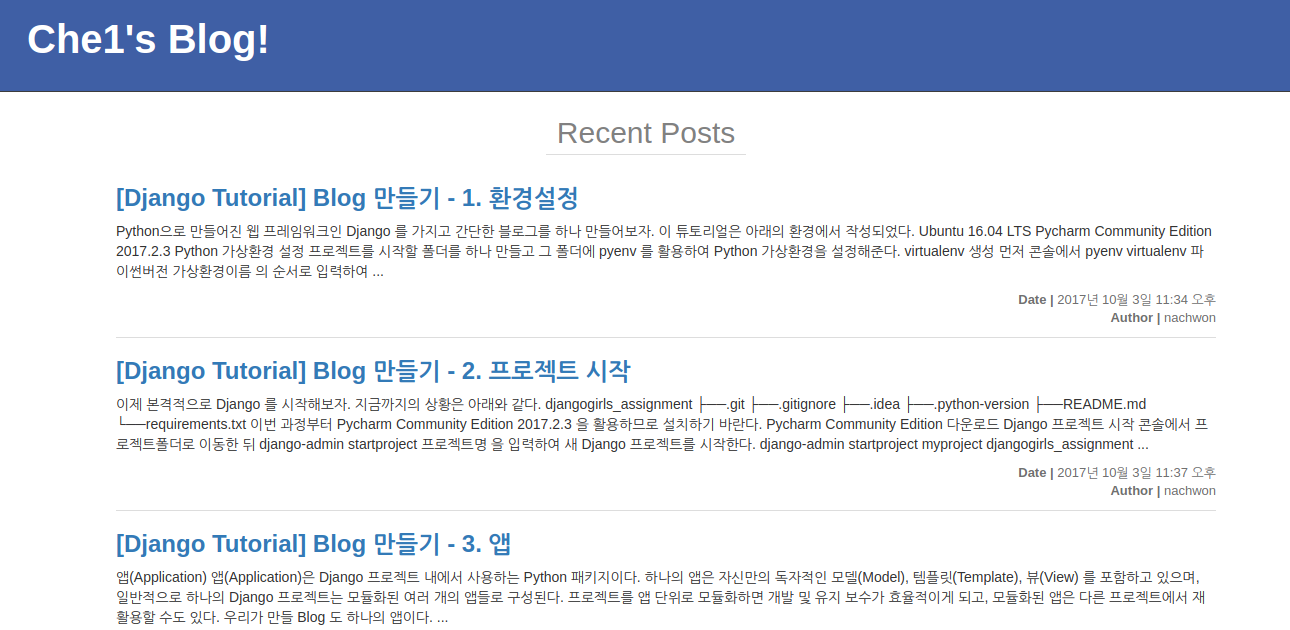
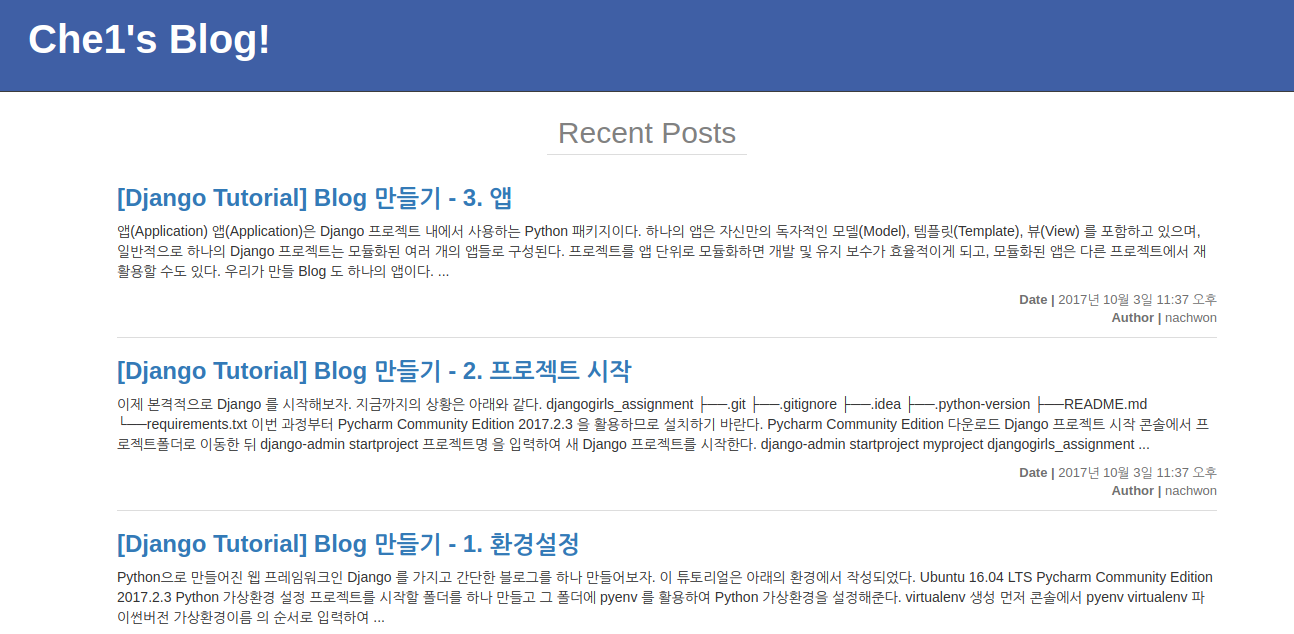
minor fixes

diff --git a/_posts/Django/2017-10-05-django-10-temp-language.md b/_posts/Django/2017-10-05-django-10-temp-language.md
@@ -60,7 +60,7 @@ author: Che1
 ```html
 <body>
     <ul>
-        <li>Post_data</li> <-- 이 부분을 자동화
+        <li>Post_data</li>  # 이 부분을 자동화
     </ul>
 </body>
 ```
@@ -70,8 +70,8 @@ author: Che1
 
 #### 템플릿에 데이터 전달하기
 
-템플릿에 데이터를 전달하는 방법을 먼저 알아보자.  
-이제 우리는 블로그 메인 화면에 나타날 `Post` 들의 목록을 만들어 줄 것이므로 `views.py` 를 열어 `helloworld` 함수를 아래와 같이 바꿔주자.
+템플릿에 데이터를 적용시켜 표시하려면 먼저 데이터를 전달하는 방법을 알아야한다. 이 작업은 뷰에서 이루어진다.   
+일단 블로그 메인 화면에 나타날 `Post` 들의 목록을 만들어 줄 것이므로 `views.py` 를 열어 `helloworld` 함수를 `post_list` 라는 함수로 바꿔주자.
 
 ```py
 def post_list(request):
@@ -128,7 +128,7 @@ return render(request, 'blog/post_list.html', context)
 #### 템플릿 언어
 
 이제 템플릿에 데이터를 전달까지 했으니 그 데이터를 호출해서 `html` 파일에 적용시키기만 하면 된다. 그런데 데이터를 가져오려면 딕셔너리 데이터의 키를 호출해야하는데 `html` 에서 무슨 수로 키를 호출할 수 있을까?  
-Python을 알아들을 수 없는 `html` 을 위해 템플릿 언어라는 것을 사용한다. `Django` 에는 내장된 템플릿 언어가 기본적으로 적용되어 있으며, 템플릿 언어의 지정은 `settings.py` 의 `TEMPLATES` 딕셔너리에서 `BACKEND` 키의 값을 수정하여 해줄 수 있다.
+Python 문법을 알아들을 수 없는 `html` 을 위해 템플릿 언어라는 것을 사용한다. `Django` 에는 내장된 템플릿 언어가 기본적으로 적용되어 있으며, 템플릿 언어의 지정은 `settings.py` 의 `TEMPLATES` 딕셔너리에서 `BACKEND` 키의 값을 수정하여 해줄 수 있다.
 
 ```python
 TEMPLATES = [
@@ -252,6 +252,10 @@ for post in posts:
 
 <img width="950px" src="/img/django_tutorial/post_content.png">
 
+- - -
+
+##### 필터 적용하기
+
 글 내용까지 보이게 만들긴 했는데 글 전체가 다 보이니 너무 정신이 없다. 몇 개의 단어까지만 보여주도록 설정해보자.
 ```html
 <body>
@@ -270,6 +274,10 @@ for post in posts:
 변수 옆에 `|` 를 붙여서 필터를 적용할 수 있다. 여기서는 글 내용에 `truncatewords` 라는 단어 수 필터를 적용하여 30 단어까지만 보여주도록 만들어 주었다. 필터의 종류는 [Django 공식문서](https://docs.djangoproject.com/en/1.11/ref/templates/builtins/#ref-templates-builtins-filters1) 에서 확인할 수 있다.
 
 <img width="950px" src="/img/django_tutorial/truncate.png">
+
+- - -
+
+##### if 조건문 
 
 이제 어느 정도 깔끔해진 것 같다. 이제 글 게시 날짜도 표시해보자.
 
@@ -331,7 +339,7 @@ for post in posts:
 
 ```py
 def post_list(request):
-    posts = Post.objects.filter(published_date__isnull=False)  # 수정된 부분
+    posts = Post.objects.filter(published_date__isnull=False).order_by('-created_date')  # 수정된 부분
     context = {
         'posts': posts,
     }
@@ -339,11 +347,14 @@ def post_list(request):
 ```
 
 기존에는 `Post.objects.all()` 을 통해 모든 `Post` 객체들의 쿼리셋을 `posts` 로 템플릿에 전달했지만, 이번에는 `.filter(published_date__isnull=False)` 로 필터를 걸어서 `published_date` 가 빈 값이 아닌 `Post` 객체들의 쿼리셋을 가져오도록 바꿔준 것이다.  
+아 그리고 바꿔주는 김에 `order_by('-created_date')` 를 추가해서 최신 글이 가장 위로 오도록 정렬해주었다.  
 이 두 방법의 결과는 아래와 같이 동일하다.
 
 <img width="950px" src="/img/django_tutorial/published_date_none.png">
 
 위 두 가지 방법 중 더 좋은 방법은 아무래도 뷰를 통해 쿼리셋 자체를 바꿔주는 방법일 것이다. 더 적은 쿼리셋을 가져오게 되므로 처리속도가 더 빠르지 않을까? 흠... 이 부분에 대해서는 데이터베이스 쿼리에 대한 좀 더 자세한 이해가 필요할 것 같다. 처리속도를 고려하지 않고서도 데이터의 가공은 뷰의 역할이므로 가능한 모든 데이터의 가공은 뷰에서 처리해주는 것이 구조상으로도 더 나아보인다.  
+
+- - -
 
 아무튼 이제 블로그의 메인화면이 구성되었다. 이제 좀 더 알록달록하고 예쁘게 꾸며보도록 하자.
 - - -

diff --git a/_posts/Django/2017-10-05-django-11-static.md b/_posts/Django/2017-10-05-django-11-static.md
@@ -16,21 +16,21 @@ author: Che1
         <li><a href="/django/2017/10/04/django-7-view.html">뷰</a></li>
         <li><a href="/django/2017/10/04/django-8-template.html">템플릿</a></li>
         <li><a href="/django/2017/10/04/django-9-ORM.html">ORM</a></li>
-        <li><a href="/django/2017/10/04/django-10-temp-language.html">템플릿 언어</a></li>
-        <li><a href="/django/2017/10/04/django-11-static.html">스테틱 파일</a></li>
+        <li><a href="/django/2017/10/05/django-10-temp-language.html">템플릿 언어</a></li>
+        <li><a href="/django/2017/10/05/django-11-static.html">스테틱 파일</a></li>
     </ol>
 </div>
 
 - - -
 
-지난 포스트에서 블로그 메인 화면 템플릿을 만들었었다. 이제 이 템플릿을 `bootstrap` 으로 예쁘게 꾸며보도록 하자.  
+지난 포스트에서 블로그 메인 화면 템플릿을 만들었었다. 이제 이 템플릿을 `CSS` 로 예쁘게 꾸며보도록 하자.  
 
 - - -
 
 #### static 폴더 생성
 
-우선 [Bootstrap](http://bootstrapk.com/getting-started/#download)에서 부트스트랩 파일들을 다운로드 한다. 부트스트랩 폴더 안에는 미리 만들어져있는 `CSS`, `Javascript` 그리고 `fonts` 파일들이 들어있다. 
-`CSS` 와 같은 파일들을 `정적 (Static)` 파일이라고 한다. 템플릿을 `template` 폴더에 모두 모아놓고 관리했듯이, 정적 파일들을 `static` 이라는 폴더에 모아놓고 관리하도록 하자.  
+블로그를 꾸미기 위해서는 `CSS` 파일이 필요하다. `CSS` 와 같은 파일들을 `정적 (Static)` 파일이라고 한다. 템플릿을 `template` 폴더에 모두 모아놓고 관리했듯이, 정적 파일들을 `static` 이라는 폴더에 모아놓고 관리하도록 하자.  
+블로그 꾸미기에 부트스트랩을 사용할 것이다. 우선 [Bootstrap](http://bootstrapk.com/getting-started/#download)에서 부트스트랩 파일들을 다운로드 하자. 부트스트랩 폴더 안에는 미리 만들어져있는 `CSS`, `Javascript` 그리고 `fonts` 파일들이 들어있다.
 `myproject` 폴더 바로 아래에 `static` 이라는 폴더를 생성하고 그 안에 다운받은 부트스트랩 폴더를 넣어준다.
 
 ```
